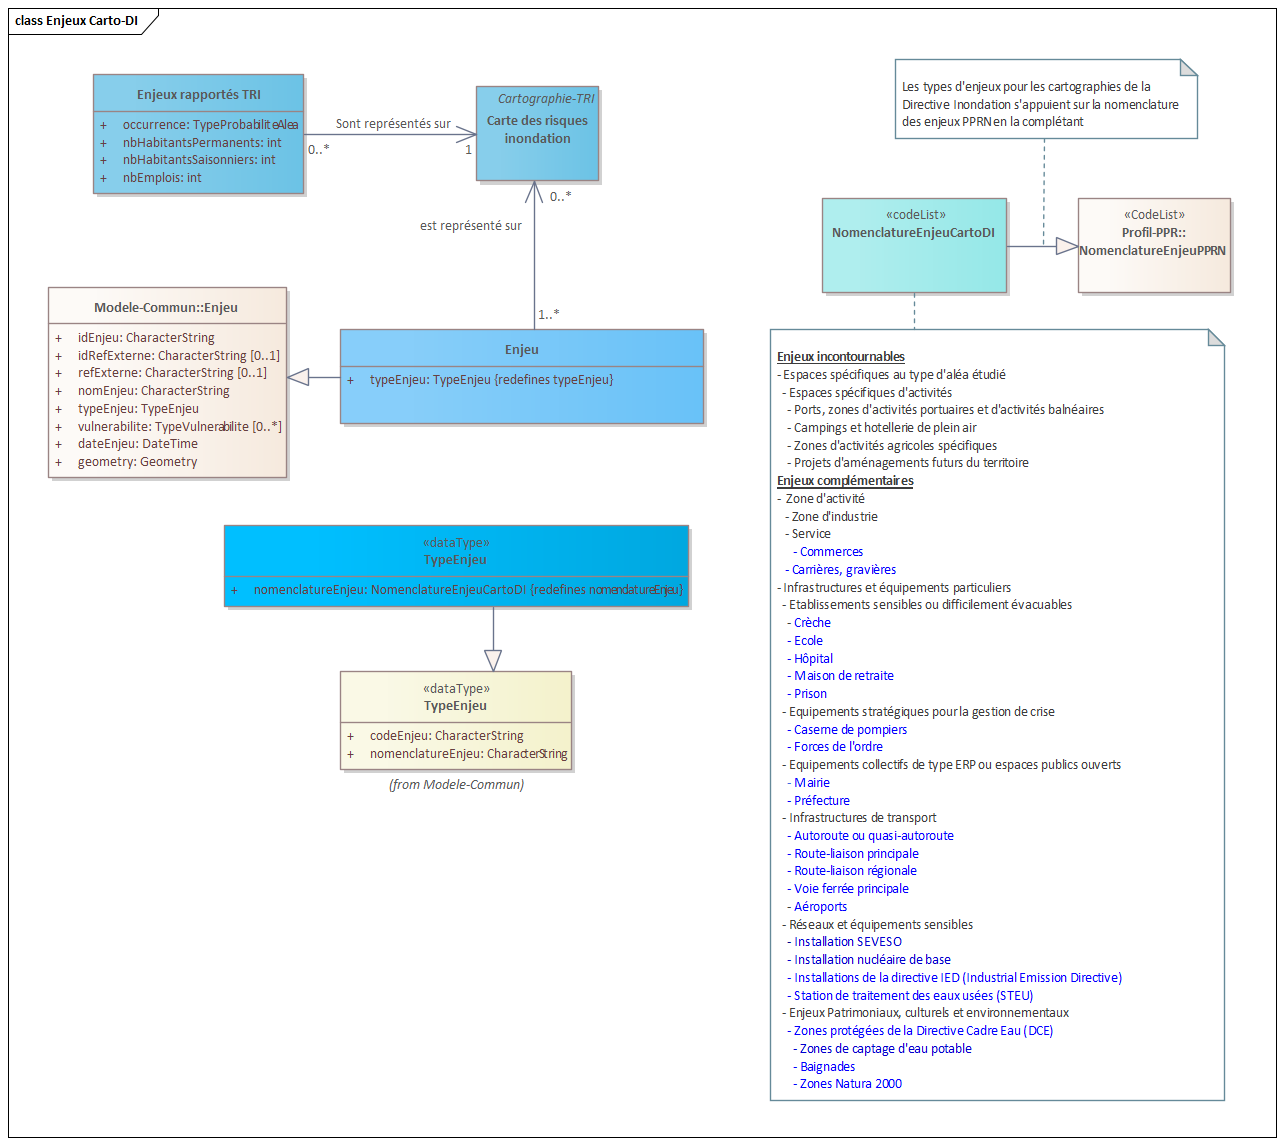
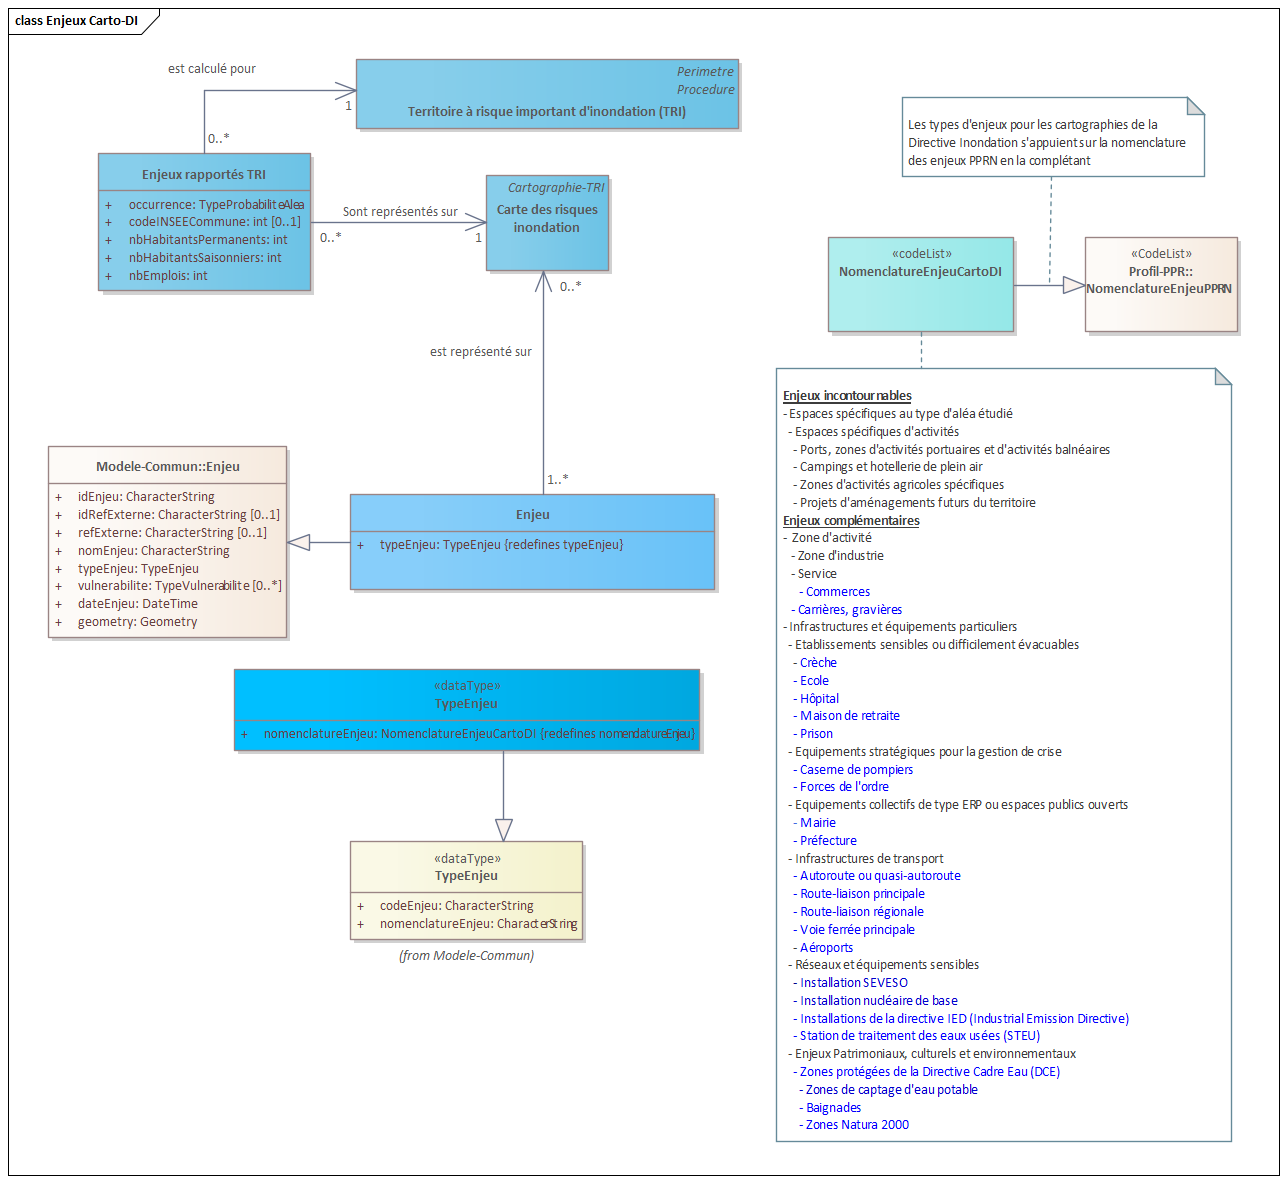
Ajout de la possibilité de rapporter des enjeux à la maille communale (cf. DDT38 #1)

Changed region(s): [[0.0312, 0.0306, 0.5919, 0.8253], [0.5919, 0.0306, 0.9657, 0.9782], [0.0, 0.0, 0.1246, 0.0306]]

diff --git a/standard/Document.md b/standard/Document.md
@@ -840,7 +840,7 @@ Cf.  [associations de la classe Ouvrage Protecteur](#associations-de-la-classe-o
 | - | - | - | - | - | - |
 | **`identifiant`** | Identifiant de l'enjeu' au sein du jeu de données. Cf. [Règles de codification des identifiants](#règles-de-codification-des-identifiants). | 1 | `identifiant` | Clé primaire | `ENJ_001` |
 | `nomEnjeu` | Nom de l'enjeu. | 1 | `CharacterString` | Saisie obligatoire | `Musée` |
-| `idRefExterne` | identifiant de l'enjeu dans le référentiel dont il est extrait lorsque c'est le cas. | 0..1 | CharacterString | Saisie libre. Le formalisme de l'identifiant est déterminé par les spécifications du référentiel externe. | `PAICULOI0000000031059085` |
+| `idRefExterne` | identifiant de l'enjeu dans le référentiel dont il est extrait lorsque c'est le cas. | 0..1 | `CharacterString` | Saisie libre. Le formalisme de l'identifiant est déterminé par les spécifications du référentiel externe. | `PAICULOI0000000031059085` |
 | `refExterne` | Référentiel externe d'où est extrait l'enjeu, lorsque c'est le cas. | 0..1 | CharacterString | Saisie libre. | `BD Topo` |
 | `typeEnjeu` | Qualification de l'enjeu à l'aide de la nomenclature des cartographies de la directive inondation. | 1 | [TypeEnjeu](#typeenjeu) | Saisie obligatoire. | `NomenclatureEnjeuCartoDI` : `Enjeu patrimonial` |
 | **`dateEnjeu`** | Date de collecte de l'enjeu (millésime du référentiel utilisé) | Date | 1 | Saisie obligatoire | `20/12/2024` |
@@ -855,6 +855,7 @@ Cf. [associations de la classe Carte des risques inondation](#associations-de-la
 | - | - |
 | **Classe d'objet** | **`Enjeux rapportés TRI`** |
 | **Définition** | Cette classe, uniquement attributaire, permet de rassembler des données quantitatives sur les nombres d'emplois et d'habitants affectés par le risque inondation en fonction des probabilités de survenue de l'inondation. |
+| **Regroupement** | Les enjeux rapportés via cette classe peuvent être calculés au niveau du TRI complet ou au niveau des communes faisant partie du périmètre du TRI. Dans ce dernier cas, la propriété `codeINSEEcommune` sera renseignée pour indiquer la commune concernée. |
 | **Modélisation géométrique** | Cette classe n'a pas de géométrie associée. |
 | **Primitive graphique** | La représentation des enjeux rapportés se fait sous forme de cartouche sur la carte des risques d'inondation |
 
@@ -863,13 +864,18 @@ Cf. [associations de la classe Carte des risques inondation](#associations-de-la
 | Attribut | Définition | Occurrences | Type | Contraintes | Exemples |
 | - | - | - | - | - | - |
 | **`occurrence`** | Probabilité de survenue de l'aléa inondation pour laquelle les chiffres sont rapportés sur la carte | 1 | [TypeProbabiliteAlea](#typeprobabilitealea) | Valeur obligatoire à prendre parmi les valeurs de[TypeProbabiliteAlea](#typeprobabilitealea) | `Aléa de moyenne probabilité` |
+| `codeINSEEcommune` | code INSEE de la commune sur laquelle les valeurs rapportées sont calculées. | 0..1 | `CharacterString` | Saisie facultative. Lorsque la valeur est nulle, alors les valeurs se rapportent à l'intégralité du TRI. La commune concernée doit faire partie du périmètre du TRI. | `30000` |
 | `nbHabitantsPermanents` | Nombre indicatif d'habitants permanents affectés pour la probabilité de survenue de l'aléa. | 1 | `entier` | Saisie obligatoire | `500` |
 | `nbHabitantsSaisonniers` | Nombre indicatif d'habitants saisonniers affectés pour la probabilité de survenue de l'aléa. | 0..1 | `entier` | Saisie libre | `500` |
 | `nbEmplois` | Nombre indicatif d'emplois affectés pour la probabilité de survenue de l'aléa. | 1 | `entier` | Saisie obligatoire | `500` |
 
 #### Associations de la classe Enjeu rapportés
 
-Cf. [associations de la classe Carte des risques inondation](#associations-de-la-classe-carte-des-risques-inondation).
+| Nom de l'association| Définition | Classe de départ (occurrence) | Classe d'arrivée (occurrence) |
+| - | - | - | - |
+| `est calculé pour` | Relation sémantique permettant d'associer des enjeux rapportés à un TRI. | [Enjeux rapportés TRI](#enjeux-rapportés-tri)(1-*) | [Territoire à risque important d'inondation](#territoire-à-risque-important-dinondation-tri)(1) |
+
+Cf. aussi [associations de la classe Carte des risques inondation](#associations-de-la-classe-carte-des-risques-inondation).
 
 ## Description des types de données et énumérés
 
@@ -1609,9 +1615,10 @@ La table `enjeux_rapportes_tri` implémente la classe [Enjeux rapportés TRI](#e
 
 | Nom colonne | Type SQL | Domaine de valeurs, contraintes | Exemple |
 | - | - | - | - |
-| **`id_ert`** |  `TEXT` | Clé primaire. Identifiant de l'enjeu rapporté au sein du jeu de données, à remplir selon les [règles de codification des identifiants](#règles-de-codification-des-identifiants) | `ERT_0001` |
-| **`id_tri`** |  `TEXT` | Clé étrangère vers la table [tri_s](#table-tri_s). Saisie obligatoire. | `FRG_TRI_TOURS` |
+| **`id_ert`** | `TEXT` | Clé primaire. Identifiant de l'enjeu rapporté au sein du jeu de données, à remplir selon les [règles de codification des identifiants](#règles-de-codification-des-identifiants) | `ERT_0001` |
+| **`id_tri`** | `TEXT` | Clé étrangère vers la table [tri_s](#table-tri_s). Saisie obligatoire. | `FRG_TRI_TOURS` |
 | **`occurrence`** | `TEXT` | Valeur obligatoire à prendre parmi les valeurs de code de la table [typeprobabilitealea](#table-de-valeurs-typeprobabilitealea) | `Moy` |
+| `code_insee_comm` | `TEXT` | Valeur facultative. Code INSEE de la commune sur laquelle sont calculées les valeurs le cas échéant. | `30000` |
 | `nb_hab_perm` | `INTEGER` | Saisie obligatoire. Nombre indicatif d'habitants permanents affectés pour la probabilité de survenue de l'aléa. Valeur positive. | `500` |
 | `nb_hab_sais` | `INTEGER` | Saisie facultative. Nombre indicatif d'habitants saisonniers affectés pour la probabilité de survenue de l'aléa. | `100` |
 | `nb_emplois` | `INTEGER` | Saisie obligatoire. Nombre indicatif d'emplois affectés pour la probabilité de survenue de l'aléa. | `200` |
